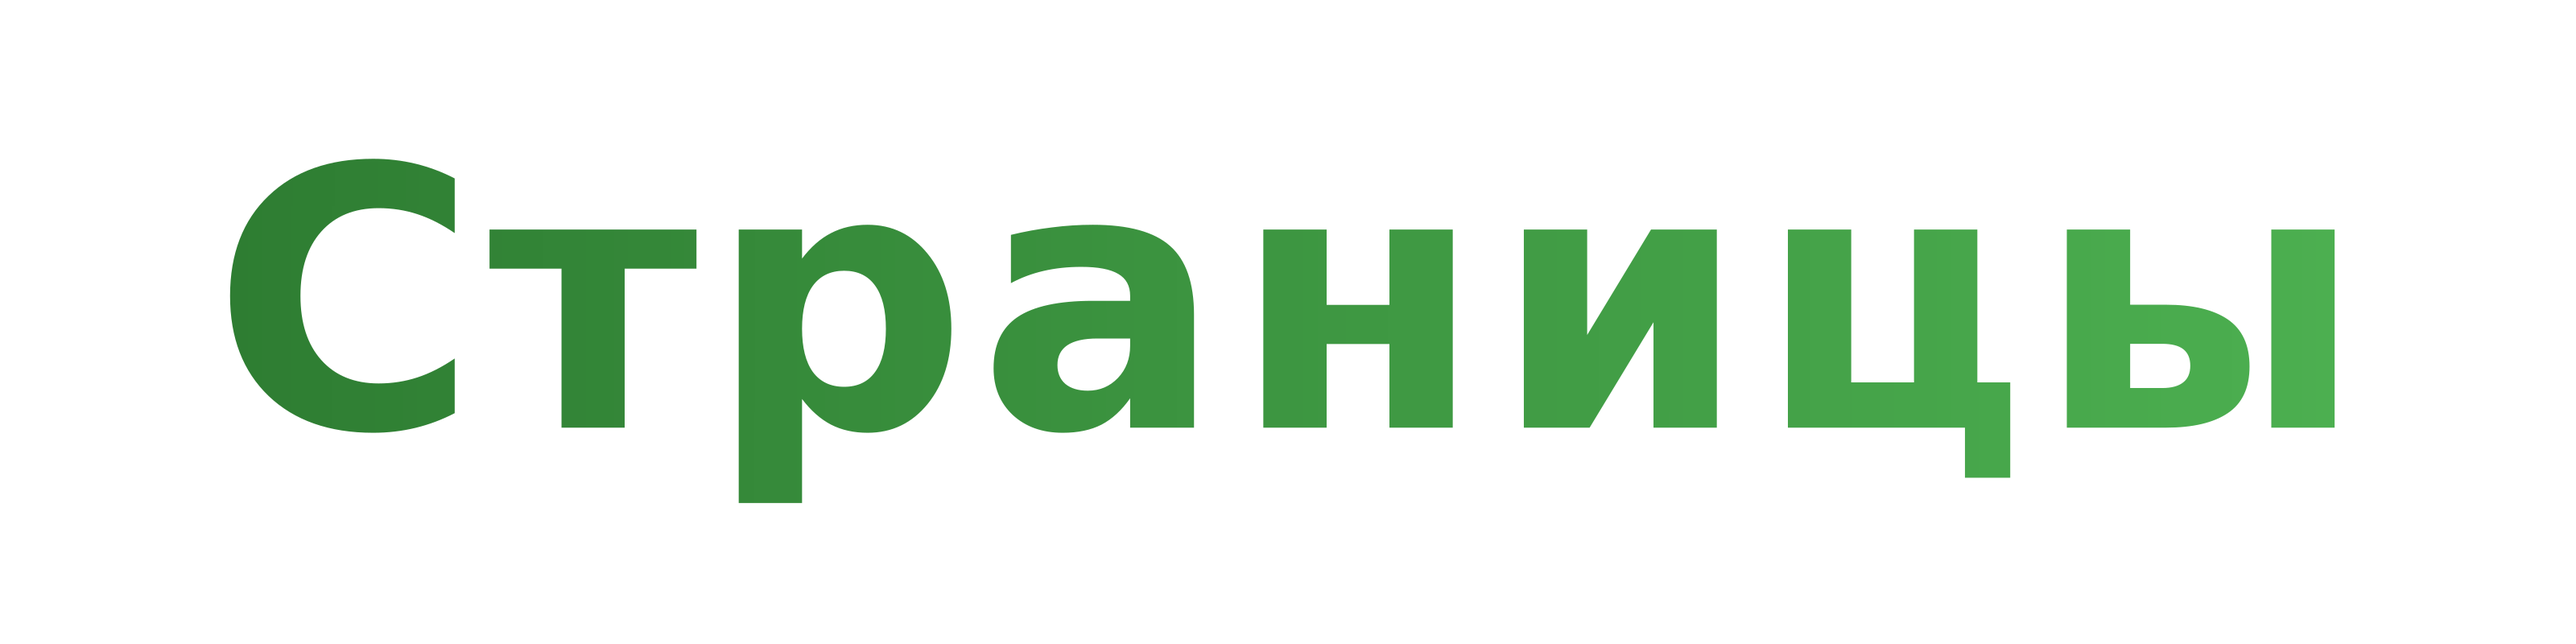
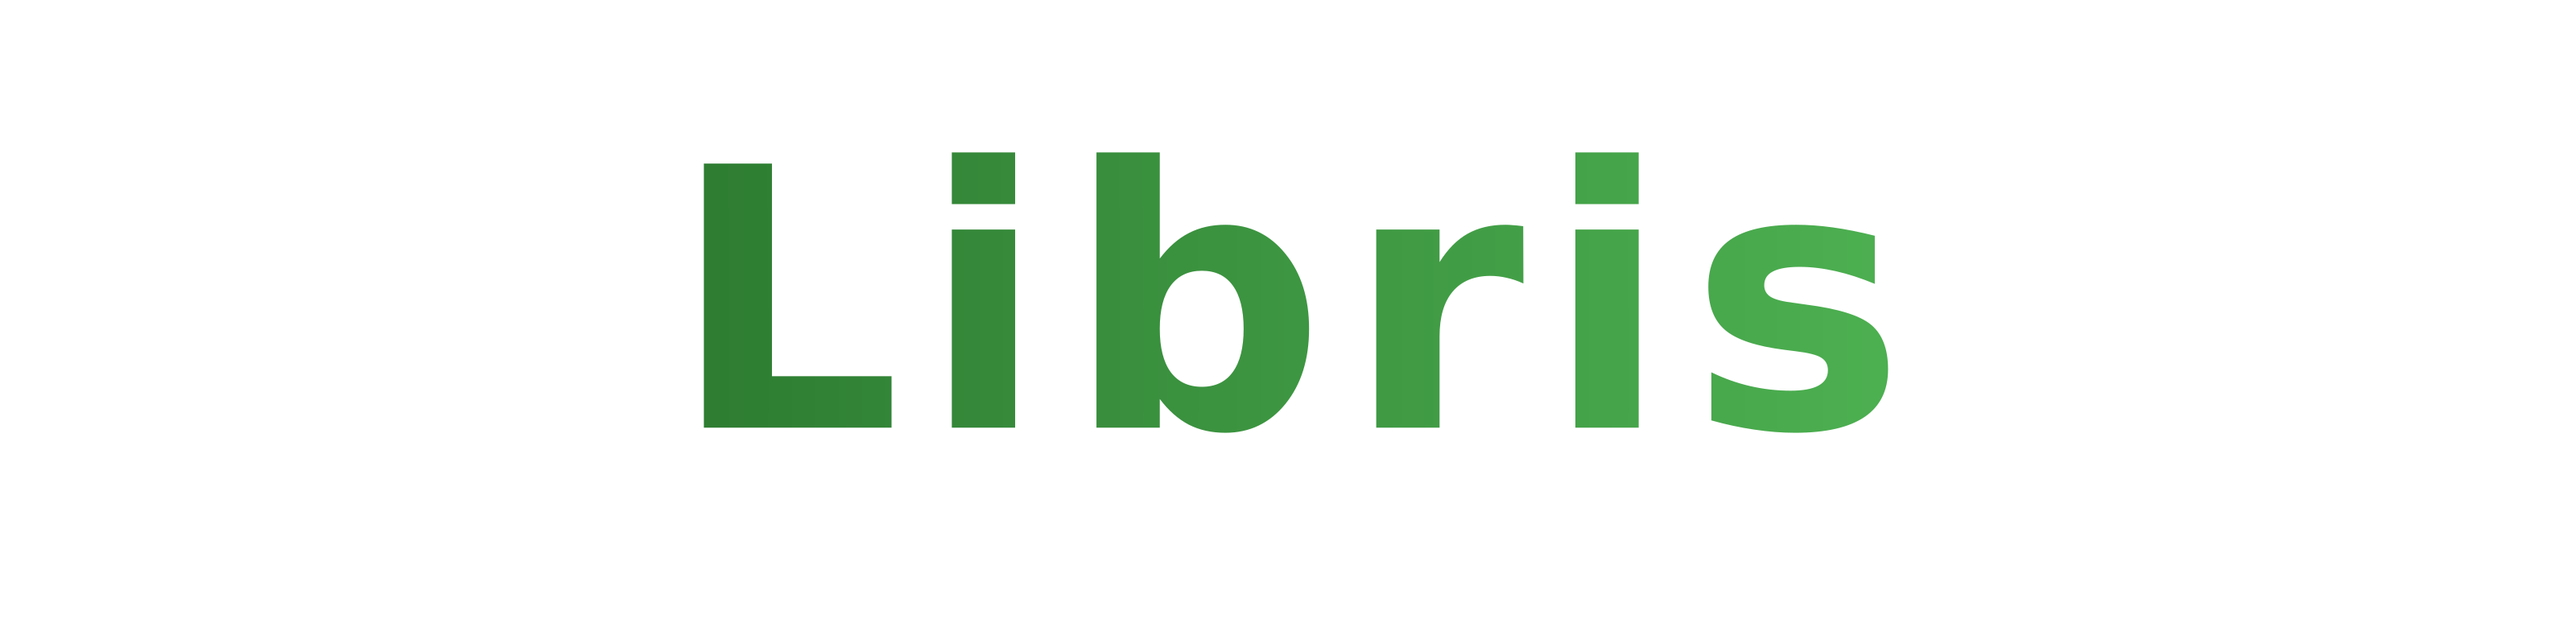
v2.96 изменено название на Libris увеличено лого

Changed region(s): [[0.1875, 0.2188, 0.9062, 0.7812], [0.0625, 0.25, 0.1875, 0.6875], [0.5938, 0.2188, 0.6562, 0.3125]]

diff --git a/style.css b/style.css
@@ -2426,8 +2426,8 @@ body.multi-delete-active { touch-action: pan-y; }
 }
 
 .splash-icon {
-    width: 150px;
-    height: 150px;
+    width: 180px;
+    height: 180px;
     border-radius: 24px;
     /* box-shadow: 0 10px 30px rgba(0,0,0,0.2); */
     animation: splashPop 0.8s ease-out;
